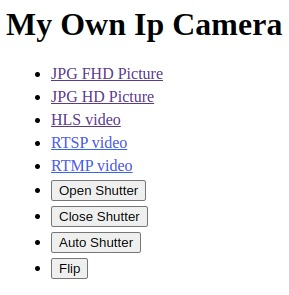
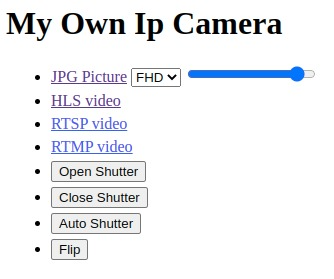
better ui ;)

diff --git a/ui/index.html b/ui/index.html
@@ -13,8 +13,10 @@
 <body>
     <h1>My Own Ip Camera</h1>
     <ul>
-        <li><a href="fhd.jpg">JPG FHD Picture</a></li>
-        <li><a href="hd.jpg">JPG HD Picture</a></li>
+        <li id="jpg"><a href="fhd.jpg">JPG Picture</a>
+            <select onchange="updateJpgLink()"><option value="fhd">FHD</option><option value="hd">HD</option></select>
+            <input type="range" min="1" max="100" onchange="updateJpgLink()" value="90">
+        </li>
         <li><a href="//localhost:8888/fhd">HLS video</a></li>
         <li><a href="rtsp://localhost/fhd">RTSP video</a></li>
         <li><a href="rtmp://localhost/fhd">RTMP video</a></li>
@@ -26,6 +28,17 @@
 
     <script type="text/javascript">
         document.querySelectorAll('a').forEach(a => a.href = a.href.replace('localhost', location.hostname))
+
+        function updateJpgLink(props) {
+            let link = document.querySelector('#jpg select').value + '.jpg'
+            const quality = document.querySelector('#jpg input').value
+
+            if (quality !== '90') {
+                link += '?quality=' + quality
+            }
+
+            document.querySelector('#jpg a').href=link
+        }
 
         async function flip() {
             await _fetch('flip', { method: 'POST' })
